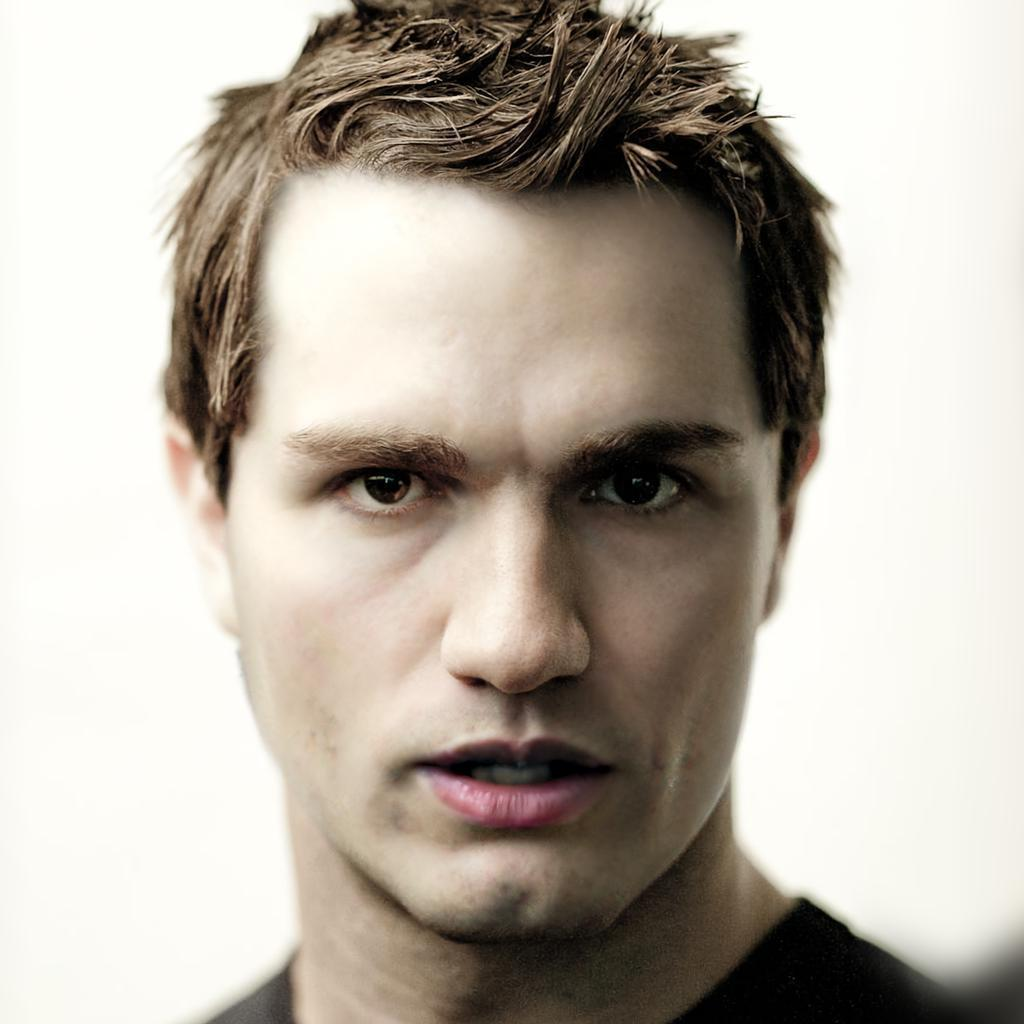
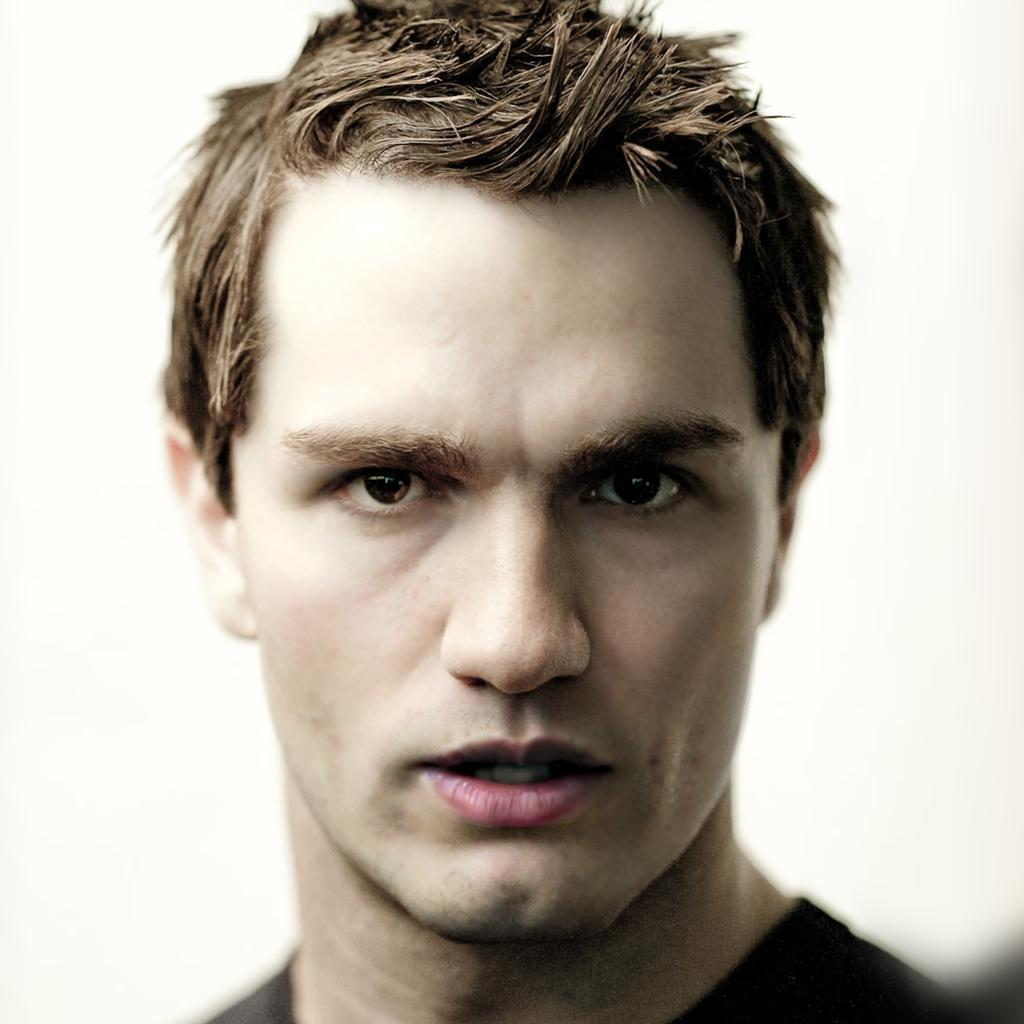
fix bug for local attr editing

diff --git a/trainer.py b/trainer.py
@@ -55,8 +55,6 @@ class Trainer():
         dynamic_masking_end = dynamic_masking_start + self.cfg.dynamic_masking_iters
 
         for i in range(self.start_steps, self.cfg.steps.latent):
-            if i % self.cfg.steps.log == 0:
-                print(f'Latent optimization {i:03d}/{self.cfg.steps.latent}')
 
             if self.cfg.optimizer.reinit and i == self.cfg.loss.start_steps.classf:
                 optimizer = optim.Adam([self.latent], lr=self.cfg.optimizer.lr_latent)
@@ -74,13 +72,16 @@ class Trainer():
                 loss['classf'] = kl_divergence(attr_pred, self.target)
 
             if self.cfg.loss.weights.seg > 0 and i >= self.cfg.loss.start_steps.seg:
-                i_dynamic_mask = self.models.face_parser(images_generated, mode='shape', upsample=False)
+                i_dynamic_mask = self.models.face_parser(images_generated, mode='shape')
                 loss['seg'] = batch_mse_loss(i_dynamic_mask, self.masks['shape'])
 
             if self.cfg.size > 0 and i >= self.cfg.loss.start_steps.seg:
                 i_dynamic_mask = self.models.face_parser(images_generated, mode='dynamic')
                 i_img_portion = get_component_portion(i_dynamic_mask)
                 loss['size'] = kl_divergence(i_img_portion, target_attr_portion)
+
+            if i % self.cfg.steps.log == 0:
+                print(f'Latent optimization {i:03d}/{self.cfg.steps.latent}')
 
             loss_sum = 0
             for term in loss:
@@ -126,8 +127,7 @@ class Trainer():
     @torch.no_grad()
     def generate_result(self):
         images_generated = self.models.generator(self.latent, noise=self.noises, to_01=True)
-        blend_mask = self.models.face_parser(images_generated, 'blend')
-        result = blend_mask * images_generated + (1 - blend_mask) * self.image
+        result = self.masks['blend'] * images_generated + (1 - self.masks['blend']) * self.image
         return result
 
     def generate_image(self):

diff --git a/main.py b/main.py
@@ -32,7 +32,8 @@ if __name__ == '__main__':
     image, target = load_data(args.image, args.target, 
                             device=cfg.device, smoothing=args.smoothing)
 
-    models = ModelsModule(attribute_subset=cfg.attributes, update_shape=cfg.models.update_shape).to(cfg.device)
+    models = ModelsModule(attribute_subset=cfg.attributes, update_shape=cfg.models.update_shape,
+                        is_local=cfg.models.is_local).to(cfg.device)
 
     trainer = Trainer(models, image, target, cfg)
 

diff --git a/models/face_parser/face_parser.py b/models/face_parser/face_parser.py
@@ -89,13 +89,12 @@ class FaceParser(nn.Module):
         masks = {}
 
         if is_local:
-            for mode in self.face_parser.mask_modes:
+            for mode in self.mask_modes:
                 masks[mode] = self(images, mode)
         else:
             masks['recon'] = self(images, 'global')
             masks['blend'] = torch.clone(masks['recon'])
             masks['dynamic'] = torch.clone(masks['recon'])
-
         return masks
 
 
